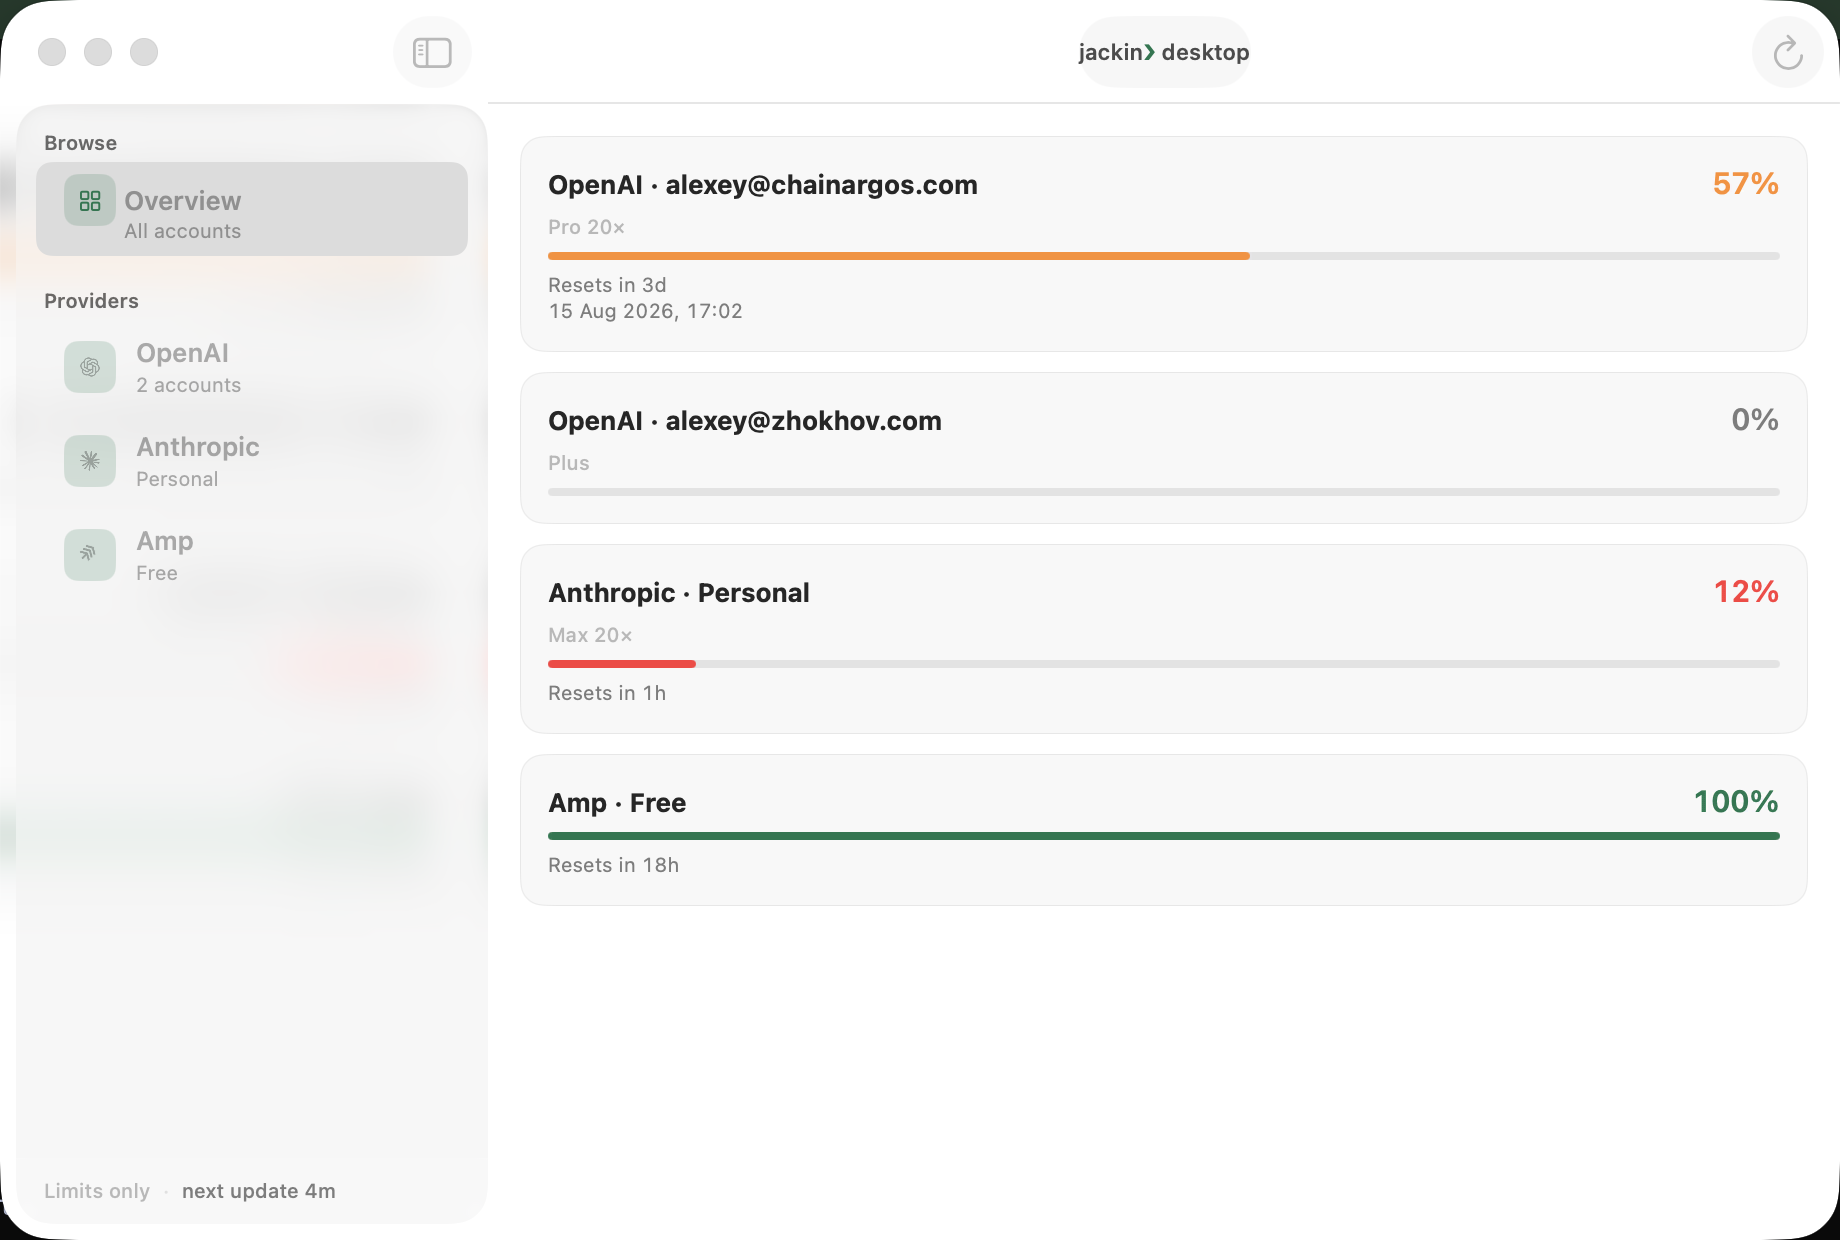
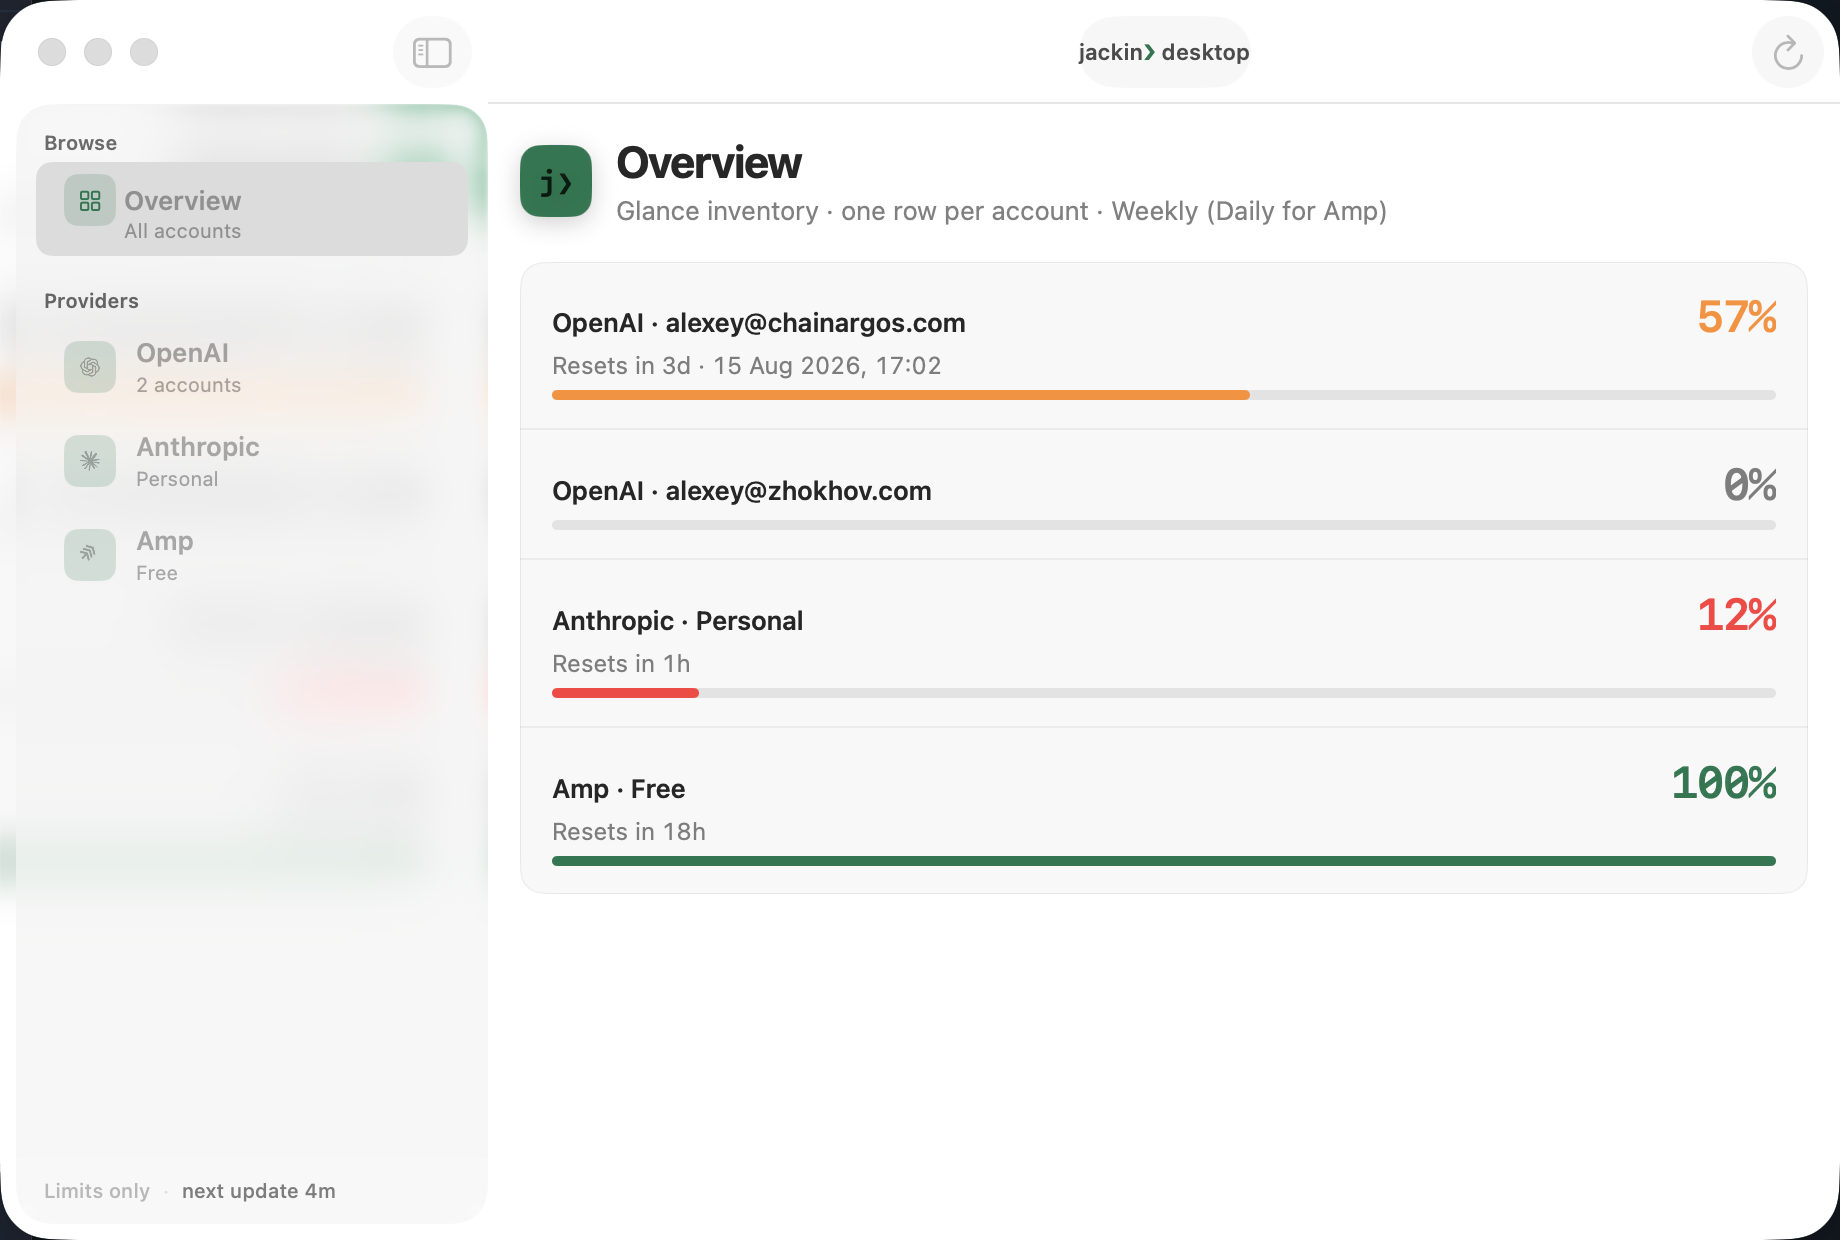
fix(desktop): align Usage Overview
Replace per-account floating cards with oracle page identity and one divided inventory list. Add architecture lint so prior false-pass structure cannot return.

diff --git a/native/Sources/JackinDesktop/UsageWindow/OverviewListView.swift b/native/Sources/JackinDesktop/UsageWindow/OverviewListView.swift
@@ -28,20 +28,14 @@ public struct OverviewListView: View {
 
     public var body: some View {
         ScrollView {
-            LazyVStack(alignment: .leading, spacing: 10) {
+            VStack(alignment: .leading, spacing: 18) {
+                overviewHead
                 if model.isEmpty {
                     Text(UsageWindowModel.emptyHint)
                         .foregroundStyle(.secondary)
                         .padding()
-                }
-                ForEach(inventory) { row in
-                    Button {
-                        onSelect(row.surfaceId, row.accountKey)
-                    } label: {
-                        inventoryCard(row)
-                    }
-                    .buttonStyle(.plain)
-                    .accessibilityLabel("\(row.title) \(row.barLabel)")
+                } else {
+                    inventoryList
                 }
             }
             .padding(16)
@@ -49,15 +43,66 @@ public struct OverviewListView: View {
         .modifier(GlassFallbacks.SoftScrollEdges())
     }
 
-    private func inventoryCard(_ row: OverviewInventoryRow) -> some View {
-        VStack(alignment: .leading, spacing: 6) {
-            HStack(alignment: .firstTextBaseline) {
+    private var overviewHead: some View {
+        HStack(spacing: 12) {
+            ZStack {
+                RoundedRectangle(cornerRadius: 10, style: .continuous)
+                    .fill(Color.jackinPhosphor)
+                HStack(spacing: 0) {
+                    Text("j")
+                    Text("❯")
+                        .fontWeight(.black)
+                }
+                .font(.system(size: 14, weight: .bold, design: .monospaced))
+                .foregroundStyle(Color.black.opacity(0.78))
+            }
+            .frame(width: 36, height: 36)
+            .shadow(color: .black.opacity(0.18), radius: 6, y: 3)
+
+            VStack(alignment: .leading, spacing: 3) {
+                Text("Overview")
+                    .font(.system(size: 22, weight: .bold))
+                    .tracking(-0.45)
+                Text("Glance inventory · one row per account · Weekly (Daily for Amp)")
+                    .font(.system(size: 13))
+                    .foregroundStyle(.secondary)
+            }
+        }
+    }
+
+    private var inventoryList: some View {
+        VStack(spacing: 0) {
+            ForEach(Array(inventory.enumerated()), id: \.element.id) { index, row in
+                if index > 0 {
+                    Divider()
+                        .opacity(0.55)
+                }
+                Button {
+                    onSelect(row.surfaceId, row.accountKey)
+                } label: {
+                    inventoryRow(row)
+                }
+                .buttonStyle(.plain)
+                .accessibilityLabel("\(row.title) \(row.barLabel)")
+            }
+        }
+        .frame(maxWidth: .infinity)
+        .background {
+            GlassFallbacks.contentCardBackground()
+        }
+    }
+
+    private func inventoryRow(_ row: OverviewInventoryRow) -> some View {
+        VStack(alignment: .leading, spacing: 4) {
+            HStack(alignment: .firstTextBaseline, spacing: 12) {
                 Text(row.title)
-                    .font(.headline)
+                    .font(.system(size: 13, weight: .semibold))
+                    .tracking(-0.1)
                     .lineLimit(2)
                 Spacer(minLength: 8)
                 Text(row.barLabel)
-                    .font(.title3.weight(.semibold).monospacedDigit())
+                    .font(.system(size: 22, weight: .semibold, design: .monospaced))
+                    .tracking(-0.5)
                     .foregroundStyle(
                         (row.remainingPercent == 0)
                             ? Color.secondary
@@ -65,28 +110,21 @@ public struct OverviewListView: View {
                     )
             }
 
-            if let plan = row.planLabel, !plan.isEmpty {
-                Text(plan)
-                    .font(.caption.weight(.medium))
-                    .foregroundStyle(.tertiary)
+            if let reset = row.resetLabel, !reset.isEmpty {
+                Text(reset.replacingOccurrences(of: "\n", with: " · "))
+                    .font(.system(size: 12))
+                    .foregroundStyle(.secondary)
+                    .monospacedDigit()
             }
 
             if let pct = row.remainingPercent {
                 glanceMeter(percent: pct, severity: row.severity)
-            }
-
-            if let reset = row.resetLabel, !reset.isEmpty {
-                Text(reset)
-                    .font(.caption)
-                    .foregroundStyle(.secondary)
-                    .monospacedDigit()
+                    .padding(.top, 1)
             }
         }
-        .padding(14)
+        .padding(.vertical, 14)
+        .padding(.horizontal, 16)
         .frame(maxWidth: .infinity, alignment: .leading)
-        .background {
-            GlassFallbacks.contentCardBackground()
-        }
     }
 
     /// 1:1 remaining fill; 0% empty track; severity color like HTML inventory meters.
@@ -101,6 +139,6 @@ public struct OverviewListView: View {
                 }
             }
         }
-        .frame(height: 4)
+        .frame(height: 5)
     }
 }

diff --git a/native/Tools/DesktopArchitectureLint/main.swift b/native/Tools/DesktopArchitectureLint/main.swift
@@ -39,6 +39,7 @@ struct DesktopArchitectureLint {
         checkUsageWindowToolbarHost(desktopRoot: desktop)
         checkStatusPopoverFocusWiring(desktopRoot: desktop)
         checkPrimaryControlCraft(desktopRoot: desktop)
+        checkUsageOverviewGrouping(desktopRoot: desktop)
         checkUsageDetailGrouping(desktopRoot: desktop)
         checkUsageAccountRail(desktopRoot: desktop)
         run(desktopRoot: desktop)
@@ -218,6 +219,29 @@ struct DesktopArchitectureLint {
             print("PASS  primary controls avoid solid phosphor slabs")
         } else {
             print("DesktopArchitectureLint: primary-control FAILURE")
+            exit(1)
+        }
+    }
+
+    /// G-U5: Overview owns one page head and one divided account inventory.
+    static func checkUsageOverviewGrouping(desktopRoot: URL) {
+        let path = desktopRoot.appendingPathComponent("UsageWindow/OverviewListView.swift")
+        guard let text = try? String(contentsOf: path, encoding: .utf8) else {
+            fputs("FAIL  OverviewListView.swift missing\n", stderr)
+            exit(2)
+        }
+        let required = [
+            "private var overviewHead: some View",
+            "private var inventoryList: some View",
+            "ForEach(Array(inventory.enumerated())",
+            "if index > 0 {",
+            "private func inventoryRow",
+        ]
+        let forbidden = ["private func inventoryCard"]
+        if required.allSatisfy(text.contains) && forbidden.allSatisfy({ !text.contains($0) }) {
+            print("PASS  Usage Overview groups account rows in one inventory list")
+        } else {
+            print("FAIL  Usage Overview must retain page head and one divided inventory list")
             exit(1)
         }
     }

diff --git a/advisor-plans/qi-artifacts/deltas/2026-08-10-usage-overview.md b/advisor-plans/qi-artifacts/deltas/2026-08-10-usage-overview.md
@@ -1,6 +1,6 @@
 # QI delta: usage-overview · Dark + Light (G-U5)
 
-**Date:** 2026-08-10 · **Tip:** `bd3f3dc9`  
+**Date:** 2026-08-10
 **Oracle HTML:** `html/usage-overview-{dark,light}.png`  
 **Native:** `native/usage-overview-{dark,light}.png` (OverviewListView)
 
@@ -8,7 +8,9 @@
 
 | Check | HTML | Native | Match |
 |-------|------|--------|-------|
-| Per-account rows | Anthropic Personal 12% · OpenAI a1 57% · a2 0% · Amp 100% | same fixture rows (+ Work optional) | Yes |
+| Page identity | 36 pt jackin❯ mark · Overview · inventory subtitle | same | Yes |
+| Per-account rows | Anthropic Personal 12% · OpenAI a1 57% · a2 0% · Amp 100% | same four fixture rows; canonical provider order | Yes |
+| Inventory anatomy | one inset list · divided rows · reset before meter | same | Yes |
 | Meters | severity colors · 0% empty | same | Yes |
 | OV-5 calendar | exact reset under OpenAI 57% | 15 Aug 2026, 17:02 | Yes |
 | Limits only | remaining % | no prices | Yes |
@@ -18,13 +20,18 @@
 
 | Severity | Element | Notes |
 |----------|---------|-------|
-| Low | Framing | Native component lacks full sidebar chrome (see usage-toolbar Light) |
+| Low | Order | HTML frozen scene ranks Anthropic first; native preserves canonical provider catalog order |
 
 ## False-pass correction
 
 QI fixture previously reversed canonical Codex/Claude catalog order and added an
 Anthropic Work account absent from the frozen HTML scene. Fixture now preserves
 `DESKTOP_PROVIDER_ORDER`; status burn ranking has its own array.
+
+Second audit found native’s earlier “Pass” still lacked oracle page identity and
+rendered every account as a separate floating card. Native now owns one page head,
+one bordered inventory list, divided rows, 13/12/22 pt typography, and meter-last
+anatomy. Architecture lint bans regression to per-row cards.
 
 ## Verdict
 **Verdict: Pass** (Dark + Light)

diff --git a/advisor-plans/VISUAL_QA_LOG.md b/advisor-plans/VISUAL_QA_LOG.md
@@ -78,6 +78,11 @@ instead of account subscription plans, removes fixture-only Anthropic Work,
 uses horizontal divided group anatomy, 22 pt metrics, and one shared 28 pt
 phosphor refresh control. Status burn-first order remains separate and intact.
 
+Usage Overview re-audit corrected its prior structural false-pass. Native now
+includes oracle page identity and groups all accounts inside one bordered,
+divided inventory list. Rows use oracle 13/12/22 pt hierarchy, reset-before-meter
+order, and one row-level hit target; architecture lint forbids floating row cards.
+
 ## Live
 popover-live / ctx-menu **BLOCKED** — SoTParity proves focus/menu.
 
